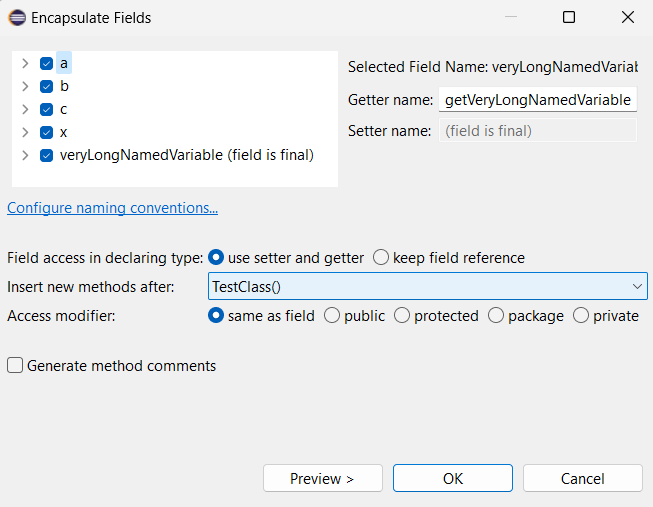
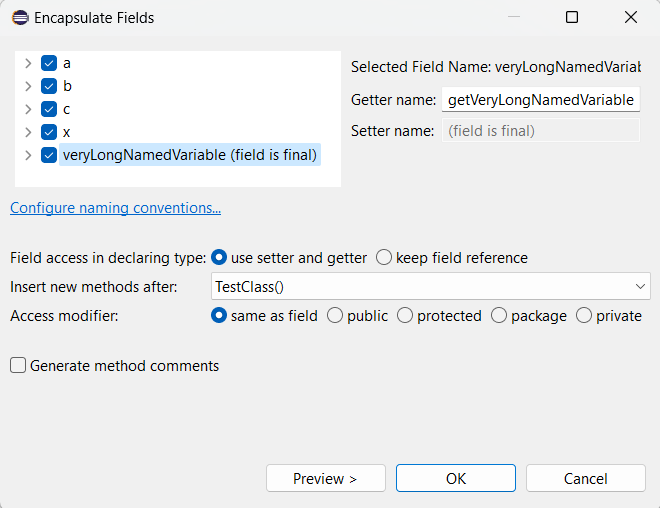
Rescale images in N&N for eclipse-jdt/eclipse.jdt.ui#1124

diff --git a/news/4.32/jdt.html b/news/4.32/jdt.html
@@ -161,13 +161,13 @@ ul {padding-left: 13px;}
 	  <td class="content">
 	  It is now possible to encapsulate multiple fields of a class and its references in other classes by invoking <b>Refactor > Encapsulate Fields...</b> on that class.
 	  <p>The new dialog looks like this:</p>
-	  <p><img src="images/new-self-encapsulate-fields-dialog.png" width="600"/></p>
+	  <p><img src="images/new-self-encapsulate-fields-dialog.png" width="800"/></p>
 	  <p>The Encapsulate Fields option can be accessed either by the <b>menu bar > Refactor</b> or by right clicking while hovering over any field. </p>
 	  <p>The dialog now consists of a tree where you can check all the fields that need to be encapsulated along with their getter and setter.</p>
 	  <p>You can now select <b>Same as field</b> (default option) as the access modifier for the generated getters and setters.</p>
 	  <p>The operation would have the following results as displayed in the example below:</p> 
-	  <p><img src="images/ser-change-in-own-class.png" width="1200"/></p>
-	  <p><img src="images/ser-change-in-references.png" width="600"/></p>
+	  <p><img src="images/ser-change-in-own-class.png" width="800"/></p>
+	  <p><img src="images/ser-change-in-references.png" width="800"/></p>
 	  
 	  </td>
   </tr>
